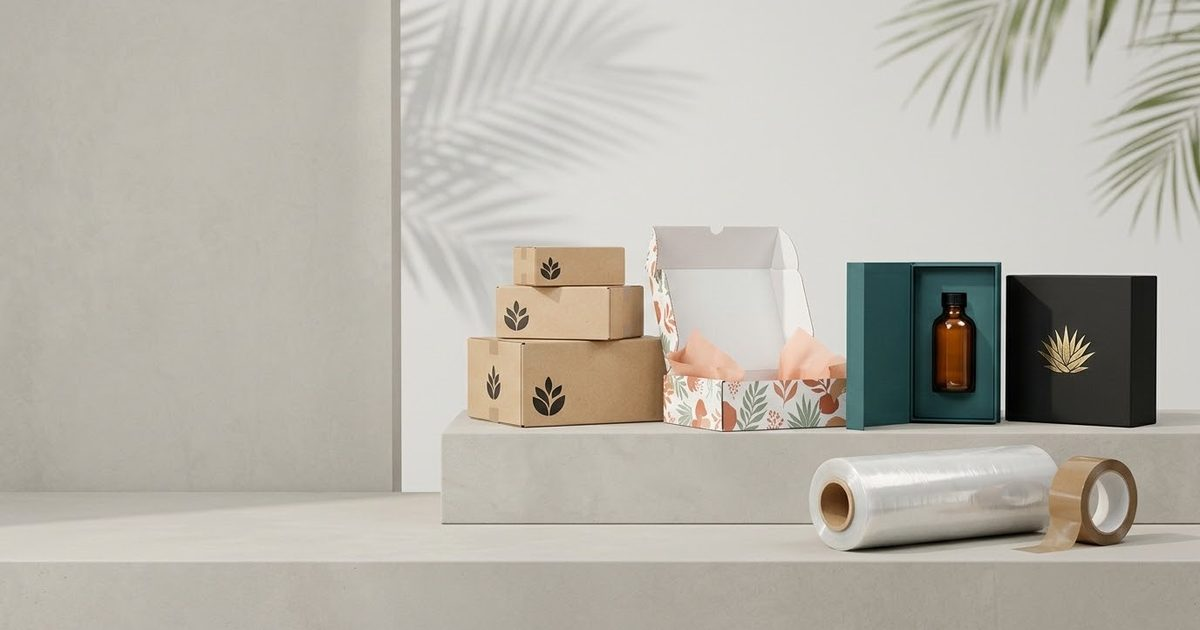
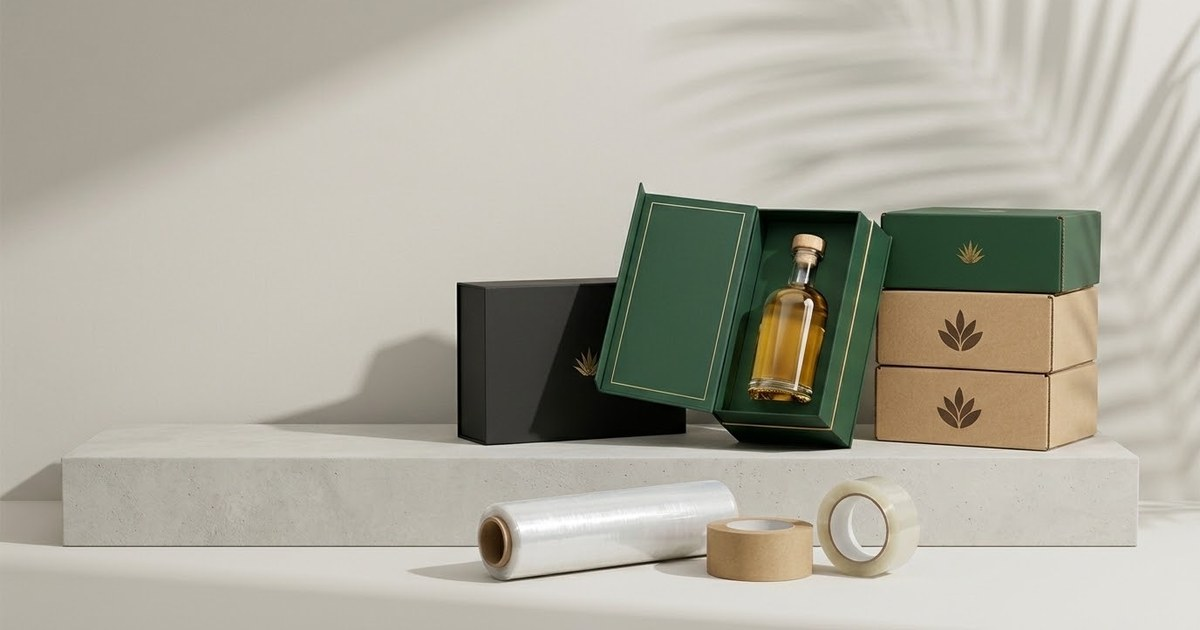
Fotos de estudio nuevas (Gemini, Diego 07/11): portada con tequila y en mejor calidad, mailer parejo, caja premium con tequila y las 4 de 'Con tu marca'; velo claro detras del texto; og.jpg nuevo

diff --git a/index.html b/index.html
@@ -13,7 +13,7 @@
 <meta property="og:url" content="https://pakza.com.mx/">
 <meta property="og:title" content="PAKZA · Empaque para tu negocio en Guadalajara">
 <meta property="og:description" content="Playo, cajas, cintas, poliburbuja y bolsas para tu negocio en Guadalajara. Arma tu lista y cotiza al momento por WhatsApp." data-con-precios="Playo, cajas, cintas, poliburbuja y bolsas con precio a la vista + IVA. Arma tu pedido y cotiza al momento por WhatsApp.">
-<meta property="og:image" content="https://pakza.com.mx/og.jpg">
+<meta property="og:image" content="https://pakza.com.mx/og.jpg?v=20261107">
 <meta property="og:image:width" content="1200">
 <meta property="og:image:height" content="630">
 <meta property="og:image:alt" content="Rollos de playo de 5 y 18 pulgadas, empaque PAKZA en Guadalajara">
@@ -126,9 +126,9 @@
       </div>
       <div class="pz-heroe__visual">
         <picture class="pz-heroe__foto">
-          <source media="(min-width:1024px)" srcset="img/portada-1376.webp" width="1376" height="768">
-          <source media="(min-width:600px)" srcset="img/portada-1024.webp" width="1024" height="572">
-          <img src="img/portada-cel-720.webp" srcset="img/portada-cel-480.webp 480w, img/portada-cel-720.webp 720w" sizes="100vw" width="720" height="540" alt="Cajas kraft con logo, caja mailer estampada, cajas prémium, rollo de playo y cinta sobre una base de concreto claro" fetchpriority="high" decoding="async">
+          <source media="(min-width:1024px)" srcset="img/portada-tq-1376.webp" width="1376" height="768">
+          <source media="(min-width:600px)" srcset="img/portada-tq-1024.webp" width="1024" height="572">
+          <img src="img/portada-tq-cel-720.webp" srcset="img/portada-tq-cel-480.webp 480w, img/portada-tq-cel-720.webp 720w" sizes="100vw" width="720" height="540" alt="Cajas kraft con logo, caja mailer, caja prémium verde con botella de tequila, caja negra, rollo de playo y cintas sobre una base de concreto claro" fetchpriority="high" decoding="async">
         </picture>
       </div>
       <ul class="pz-cifras" id="cifras" aria-label="Datos para pedir">
@@ -205,10 +205,10 @@
       </div>
       <div class="pz-fams__sub pz-aparece" style="--i:6"><span class="pz-nuevo">Nuevo</span><h3 class="pz-fams__titulo">Con tu marca</h3><p class="pz-fams__bajada">Las hacemos a tu medida y con tu logo.</p><a class="pz-fams__liga" href="#a-la-medida">Cómo funciona<svg class="ico" aria-hidden="true"><use href="#i-flecha"/></svg></a></div>
       <div class="pz-fams pz-fams--marca">
-        <a class="pz-fam pz-fam--logo pz-aparece" style="--i:7" href="https://wa.me/523313673566?text=Hola%20PAKZA%2C%20quiero%20cajas%20para%20comida%20con%20mi%20logo%20%5BWEB%5D" target="_blank" rel="noopener"><span class="pz-fam__foto"><img src="img/marca-comida-480.webp" srcset="img/marca-comida-480.webp 480w, img/marca-comida-768.webp 768w" sizes="(min-width:1024px) 280px, (min-width:768px) 33vw, 50vw" width="480" height="300" alt="" loading="lazy" decoding="async"><span class="pz-fam__tag">Con tu logo</span></span><span class="pz-fam__txt"><span class="pz-fam__nombre">Cajas para comida</span><span class="pz-fam__linea">Pizza, hamburguesa y postres.</span><span class="pz-fam__ver">Cotízala por WhatsApp</span></span><svg class="ico pz-fam__flecha" aria-hidden="true"><use href="#i-flecha"/></svg></a>
-        <a class="pz-fam pz-fam--logo pz-aparece" style="--i:8" href="https://wa.me/523313673566?text=Hola%20PAKZA%2C%20quiero%20cajas%20de%20env%C3%ADo%20con%20mi%20marca%20%5BWEB%5D" target="_blank" rel="noopener"><span class="pz-fam__foto"><img src="img/marca-envio-480.webp" srcset="img/marca-envio-480.webp 480w, img/marca-envio-768.webp 768w" sizes="(min-width:1024px) 280px, (min-width:768px) 33vw, 50vw" width="480" height="300" alt="" loading="lazy" decoding="async"><span class="pz-fam__tag">Con tu logo</span></span><span class="pz-fam__txt"><span class="pz-fam__nombre">Cajas de envío</span><span class="pz-fam__linea">Mailers para tu tienda en línea.</span><span class="pz-fam__ver">Cotízala por WhatsApp</span></span><svg class="ico pz-fam__flecha" aria-hidden="true"><use href="#i-flecha"/></svg></a>
-        <a class="pz-fam pz-fam--logo pz-aparece" style="--i:9" href="https://wa.me/523313673566?text=Hola%20PAKZA%2C%20quiero%20cajas%20de%20regalo%20con%20mi%20marca%20%5BWEB%5D" target="_blank" rel="noopener"><span class="pz-fam__foto"><img src="img/marca-regalo-480.webp" srcset="img/marca-regalo-480.webp 480w, img/marca-regalo-768.webp 768w" sizes="(min-width:1024px) 280px, (min-width:768px) 33vw, 50vw" width="480" height="300" alt="" loading="lazy" decoding="async"><span class="pz-fam__tag">Con tu logo</span></span><span class="pz-fam__txt"><span class="pz-fam__nombre">Cajas de regalo prémium</span><span class="pz-fam__linea">Rígidas, con imán o con tapa.</span><span class="pz-fam__ver">Cotízala por WhatsApp</span></span><svg class="ico pz-fam__flecha" aria-hidden="true"><use href="#i-flecha"/></svg></a>
-        <a class="pz-fam pz-fam--logo pz-aparece" style="--i:10" href="https://wa.me/523313673566?text=Hola%20PAKZA%2C%20quiero%20cajitas%20para%20mis%20productos%20con%20mi%20marca%20%5BWEB%5D" target="_blank" rel="noopener"><span class="pz-fam__foto"><img src="img/marca-cosmeticos-480.webp" srcset="img/marca-cosmeticos-480.webp 480w, img/marca-cosmeticos-768.webp 768w" sizes="(min-width:1024px) 280px, (min-width:768px) 33vw, 50vw" width="480" height="300" alt="" loading="lazy" decoding="async"><span class="pz-fam__tag">Con tu logo</span></span><span class="pz-fam__txt"><span class="pz-fam__nombre">Cajitas para cosméticos</span><span class="pz-fam__linea">Cremas, perfumes, jabones y velas.</span><span class="pz-fam__ver">Cotízala por WhatsApp</span></span><svg class="ico pz-fam__flecha" aria-hidden="true"><use href="#i-flecha"/></svg></a>
+        <a class="pz-fam pz-fam--logo pz-aparece" style="--i:7" href="https://wa.me/523313673566?text=Hola%20PAKZA%2C%20quiero%20cajas%20para%20comida%20con%20mi%20logo%20%5BWEB%5D" target="_blank" rel="noopener"><span class="pz-fam__foto"><img src="img/marca2-comida-480.webp" srcset="img/marca2-comida-480.webp 480w, img/marca2-comida-768.webp 768w" sizes="(min-width:1024px) 280px, (min-width:768px) 33vw, 50vw" width="480" height="300" alt="" loading="lazy" decoding="async"><span class="pz-fam__tag">Con tu logo</span></span><span class="pz-fam__txt"><span class="pz-fam__nombre">Cajas para comida</span><span class="pz-fam__linea">Pizza, hamburguesa y postres.</span><span class="pz-fam__ver">Cotízala por WhatsApp</span></span><svg class="ico pz-fam__flecha" aria-hidden="true"><use href="#i-flecha"/></svg></a>
+        <a class="pz-fam pz-fam--logo pz-aparece" style="--i:8" href="https://wa.me/523313673566?text=Hola%20PAKZA%2C%20quiero%20cajas%20de%20env%C3%ADo%20con%20mi%20marca%20%5BWEB%5D" target="_blank" rel="noopener"><span class="pz-fam__foto"><img src="img/marca2-envio-480.webp" srcset="img/marca2-envio-480.webp 480w, img/marca2-envio-768.webp 768w" sizes="(min-width:1024px) 280px, (min-width:768px) 33vw, 50vw" width="480" height="300" alt="" loading="lazy" decoding="async"><span class="pz-fam__tag">Con tu logo</span></span><span class="pz-fam__txt"><span class="pz-fam__nombre">Cajas de envío</span><span class="pz-fam__linea">Mailers para tu tienda en línea.</span><span class="pz-fam__ver">Cotízala por WhatsApp</span></span><svg class="ico pz-fam__flecha" aria-hidden="true"><use href="#i-flecha"/></svg></a>
+        <a class="pz-fam pz-fam--logo pz-aparece" style="--i:9" href="https://wa.me/523313673566?text=Hola%20PAKZA%2C%20quiero%20cajas%20de%20regalo%20con%20mi%20marca%20%5BWEB%5D" target="_blank" rel="noopener"><span class="pz-fam__foto"><img src="img/marca2-regalo-480.webp" srcset="img/marca2-regalo-480.webp 480w, img/marca2-regalo-768.webp 768w" sizes="(min-width:1024px) 280px, (min-width:768px) 33vw, 50vw" width="480" height="300" alt="" loading="lazy" decoding="async"><span class="pz-fam__tag">Con tu logo</span></span><span class="pz-fam__txt"><span class="pz-fam__nombre">Cajas de regalo prémium</span><span class="pz-fam__linea">Rígidas, con imán o con tapa.</span><span class="pz-fam__ver">Cotízala por WhatsApp</span></span><svg class="ico pz-fam__flecha" aria-hidden="true"><use href="#i-flecha"/></svg></a>
+        <a class="pz-fam pz-fam--logo pz-aparece" style="--i:10" href="https://wa.me/523313673566?text=Hola%20PAKZA%2C%20quiero%20cajitas%20para%20mis%20productos%20con%20mi%20marca%20%5BWEB%5D" target="_blank" rel="noopener"><span class="pz-fam__foto"><img src="img/marca2-cosmeticos-480.webp" srcset="img/marca2-cosmeticos-480.webp 480w, img/marca2-cosmeticos-768.webp 768w" sizes="(min-width:1024px) 280px, (min-width:768px) 33vw, 50vw" width="480" height="300" alt="" loading="lazy" decoding="async"><span class="pz-fam__tag">Con tu logo</span></span><span class="pz-fam__txt"><span class="pz-fam__nombre">Cajitas para cosméticos</span><span class="pz-fam__linea">Cremas, perfumes, jabones y velas.</span><span class="pz-fam__ver">Cotízala por WhatsApp</span></span><svg class="ico pz-fam__flecha" aria-hidden="true"><use href="#i-flecha"/></svg></a>
       </div>
       <p class="pz-otra"><a class="liga" href="https://wa.me/523313673566?text=Hola%20PAKZA%2C%20vi%20su%20p%C3%A1gina%20y%20busco%20una%20medida%20que%20no%20encontr%C3%A9%20%5BWEB%5D" target="_blank" rel="noopener"><svg class="ico ico--marca" aria-hidden="true"><use href="#i-wa"/></svg>¿Buscas otra medida? Escríbenos</a></p>
     </div>
@@ -296,8 +296,8 @@
         <div class="pz-galeria">
           <div class="pz-tipos">
             <button type="button" class="pz-tipo" data-tipo="Cajas de envío" aria-pressed="false"><span class="pz-tipo__foto"><img src="img/g-envio-480.webp" srcset="img/g-envio-480.webp 480w, img/g-envio-768.webp 768w" sizes="(min-width:1024px) 360px, (min-width:600px) 46vw, 82vw" width="480" height="600" alt="Cajas de cartón kraft apiladas con un logo de hoja impreso a una tinta" loading="lazy" decoding="async"></span><span class="pz-tipo__elegida" aria-hidden="true"><svg class="ico"><use href="#i-check"/></svg>Elegida</span><span class="pz-tipo__txt"><span class="pz-tipo__nombre">Cajas de envío</span><span class="pz-tipo__linea">Kraft o blancas, con tu logo o sin imprimir.</span></span></button>
-            <button type="button" class="pz-tipo" data-tipo="Mailers para tienda en línea" aria-pressed="false"><span class="pz-tipo__foto"><img src="img/g-mailer-480.webp" srcset="img/g-mailer-480.webp 480w, img/g-mailer-768.webp 768w" sizes="(min-width:1024px) 360px, (min-width:600px) 46vw, 82vw" width="480" height="600" alt="Caja mailer impresa a todo color abierta con papel de china, junto a otras cajas con estampado" loading="lazy" decoding="async"></span><span class="pz-tipo__elegida" aria-hidden="true"><svg class="ico"><use href="#i-check"/></svg>Elegida</span><span class="pz-tipo__txt"><span class="pz-tipo__nombre">Mailers para tienda en línea</span><span class="pz-tipo__linea">Se arman sin cinta y lucen al abrirlas.</span></span></button>
-            <button type="button" class="pz-tipo" data-tipo="Cajas prémium y de regalo" aria-pressed="false"><span class="pz-tipo__foto"><img src="img/g-premium-480.webp" srcset="img/g-premium-480.webp 480w, img/g-premium-768.webp 768w" sizes="(min-width:1024px) 360px, (min-width:600px) 46vw, 82vw" width="480" height="600" alt="Caja rígida magnética abierta con botella de licor y caja negra con logo dorado" loading="lazy" decoding="async"></span><span class="pz-tipo__elegida" aria-hidden="true"><svg class="ico"><use href="#i-check"/></svg>Elegida</span><span class="pz-tipo__txt"><span class="pz-tipo__nombre">Cajas prémium y de regalo</span><span class="pz-tipo__linea">Rígidas, con imán o con tapa, para tequila, vino o regalo.</span></span></button>
+            <button type="button" class="pz-tipo" data-tipo="Mailers para tienda en línea" aria-pressed="false"><span class="pz-tipo__foto"><img src="img/g2-mailer-480.webp" srcset="img/g2-mailer-480.webp 480w, img/g2-mailer-768.webp 768w" sizes="(min-width:1024px) 360px, (min-width:600px) 46vw, 82vw" width="480" height="600" alt="Caja mailer impresa a todo color abierta con papel de china, junto a otras cajas con estampado" loading="lazy" decoding="async"></span><span class="pz-tipo__elegida" aria-hidden="true"><svg class="ico"><use href="#i-check"/></svg>Elegida</span><span class="pz-tipo__txt"><span class="pz-tipo__nombre">Mailers para tienda en línea</span><span class="pz-tipo__linea">Se arman sin cinta y lucen al abrirlas.</span></span></button>
+            <button type="button" class="pz-tipo" data-tipo="Cajas prémium y de regalo" aria-pressed="false"><span class="pz-tipo__foto"><img src="img/g2-premium-480.webp" srcset="img/g2-premium-480.webp 480w, img/g2-premium-768.webp 768w" sizes="(min-width:1024px) 360px, (min-width:600px) 46vw, 82vw" width="480" height="600" alt="Caja rígida magnética abierta con botella de licor y caja negra con logo dorado" loading="lazy" decoding="async"></span><span class="pz-tipo__elegida" aria-hidden="true"><svg class="ico"><use href="#i-check"/></svg>Elegida</span><span class="pz-tipo__txt"><span class="pz-tipo__nombre">Cajas prémium y de regalo</span><span class="pz-tipo__linea">Rígidas, con imán o con tapa, para tequila, vino o regalo.</span></span></button>
             <button type="button" class="pz-tipo" data-tipo="Kraft impreso con tu diseño" aria-pressed="false"><span class="pz-tipo__foto"><img src="img/g-impresa-480.webp" srcset="img/g-impresa-480.webp 480w, img/g-impresa-768.webp 768w" sizes="(min-width:1024px) 360px, (min-width:600px) 46vw, 82vw" width="480" height="600" alt="Caja mailer kraft con estampado de hojas y cajas kraft con tu logo" loading="lazy" decoding="async"></span><span class="pz-tipo__elegida" aria-hidden="true"><svg class="ico"><use href="#i-check"/></svg>Elegida</span><span class="pz-tipo__txt"><span class="pz-tipo__nombre">Kraft impreso con tu diseño</span><span class="pz-tipo__linea">Kraft liso o con estampado, para que tu marca se vea natural.</span></span></button>
             <button type="button" class="pz-tipo" data-tipo="Regalos y temporada" aria-pressed="false"><span class="pz-tipo__foto"><img src="img/g-regalo-480.webp" srcset="img/g-regalo-480.webp 480w, img/g-regalo-768.webp 768w" sizes="(min-width:1024px) 360px, (min-width:600px) 46vw, 82vw" width="480" height="600" alt="Cajas de regalo navideñas con tu marca: caja verde con cajón, caja azul, bolsa de papel y caja con ventana" loading="lazy" decoding="async"></span><span class="pz-tipo__elegida" aria-hidden="true"><svg class="ico"><use href="#i-check"/></svg>Elegida</span><span class="pz-tipo__txt"><span class="pz-tipo__nombre">Regalos y temporada</span><span class="pz-tipo__linea">Cajas y bolsas de regalo para Navidad y fechas especiales.</span></span></button>
           </div>

diff --git a/assets/portada.css b/assets/portada.css
@@ -366,6 +366,9 @@ html:not(.listo) .pz-cifra:has([data-m]:empty),html:not(.listo) p:has(>[data-m]:
   .pz-heroe__in{position:static;grid-template-columns:minmax(0,45%) 1fr}
   .pz-heroe__texto,.pz-cifras{position:relative;z-index:1}
   .pz-heroe__texto{grid-column:1}
+  /* 07/11 (portada con tequila): velo claro a la izquierda para que el texto siempre se lea sobre la foto */
+  .pz-heroe__visual::after{content:"";position:absolute;inset:0;pointer-events:none;
+    background:linear-gradient(90deg,rgba(232,231,228,.92) 0%,rgba(232,231,228,.78) 30%,rgba(232,231,228,.35) 44%,rgba(232,231,228,0) 56%)}
 }
 .pz-medida__bloque{--negro:#12302A;--negro-2:#1A3D35;--negro-3:#2E5648;--oro:#D8B56A;background:var(--negro)}
 .pz-medida .pz-h2,.pz-medida .pz-tipo__nombre{font-family:Georgia,"Times New Roman",serif;font-weight:700;letter-spacing:-.01em}

diff --git a/catalogo.html b/catalogo.html
@@ -13,7 +13,7 @@
 <meta property="og:url" content="https://pakza.com.mx/catalogo.html">
 <meta property="og:title" content="Catálogo de empaque · PAKZA Guadalajara" data-con-precios="Catálogo de empaque con precios · PAKZA Guadalajara">
 <meta property="og:description" content="Busca por medida o calibre, arma tu lista y pide tu cotización por WhatsApp." data-con-precios="Busca por medida o calibre, ve el precio + IVA y manda tu pedido por WhatsApp.">
-<meta property="og:image" content="https://pakza.com.mx/og.jpg">
+<meta property="og:image" content="https://pakza.com.mx/og.jpg?v=20261107">
 <meta property="og:image:width" content="1200">
 <meta property="og:image:height" content="630">
 <meta property="og:image:alt" content="Rollos de playo de 5 y 18 pulgadas, empaque PAKZA en Guadalajara">

diff --git a/borrar-datos.html b/borrar-datos.html
@@ -13,7 +13,7 @@
 <meta property="og:url" content="https://pakza.com.mx/borrar-datos.html">
 <meta property="og:title" content="Cómo borrar tus datos · PAKZA Guadalajara">
 <meta property="og:description" content="Cómo pedir a PAKZA, empaque y embalaje en Guadalajara, que borre tus datos y conversaciones: por WhatsApp, Messenger o correo.">
-<meta property="og:image" content="https://pakza.com.mx/og.jpg">
+<meta property="og:image" content="https://pakza.com.mx/og.jpg?v=20261107">
 <meta property="og:image:width" content="1200">
 <meta property="og:image:height" content="630">
 <meta property="og:image:alt" content="Rollos de playo de 5 y 18 pulgadas, empaque PAKZA en Guadalajara">

diff --git a/privacidad.html b/privacidad.html
@@ -13,7 +13,7 @@
 <meta property="og:url" content="https://pakza.com.mx/privacidad.html">
 <meta property="og:title" content="Aviso de privacidad · PAKZA Guadalajara">
 <meta property="og:description" content="Cómo PAKZA, empaque y embalaje en Guadalajara, usa y protege tus datos personales, y cómo pedir que los borremos.">
-<meta property="og:image" content="https://pakza.com.mx/og.jpg">
+<meta property="og:image" content="https://pakza.com.mx/og.jpg?v=20261107">
 <meta property="og:image:width" content="1200">
 <meta property="og:image:height" content="630">
 <meta property="og:image:alt" content="Rollos de playo de 5 y 18 pulgadas, empaque PAKZA en Guadalajara">
